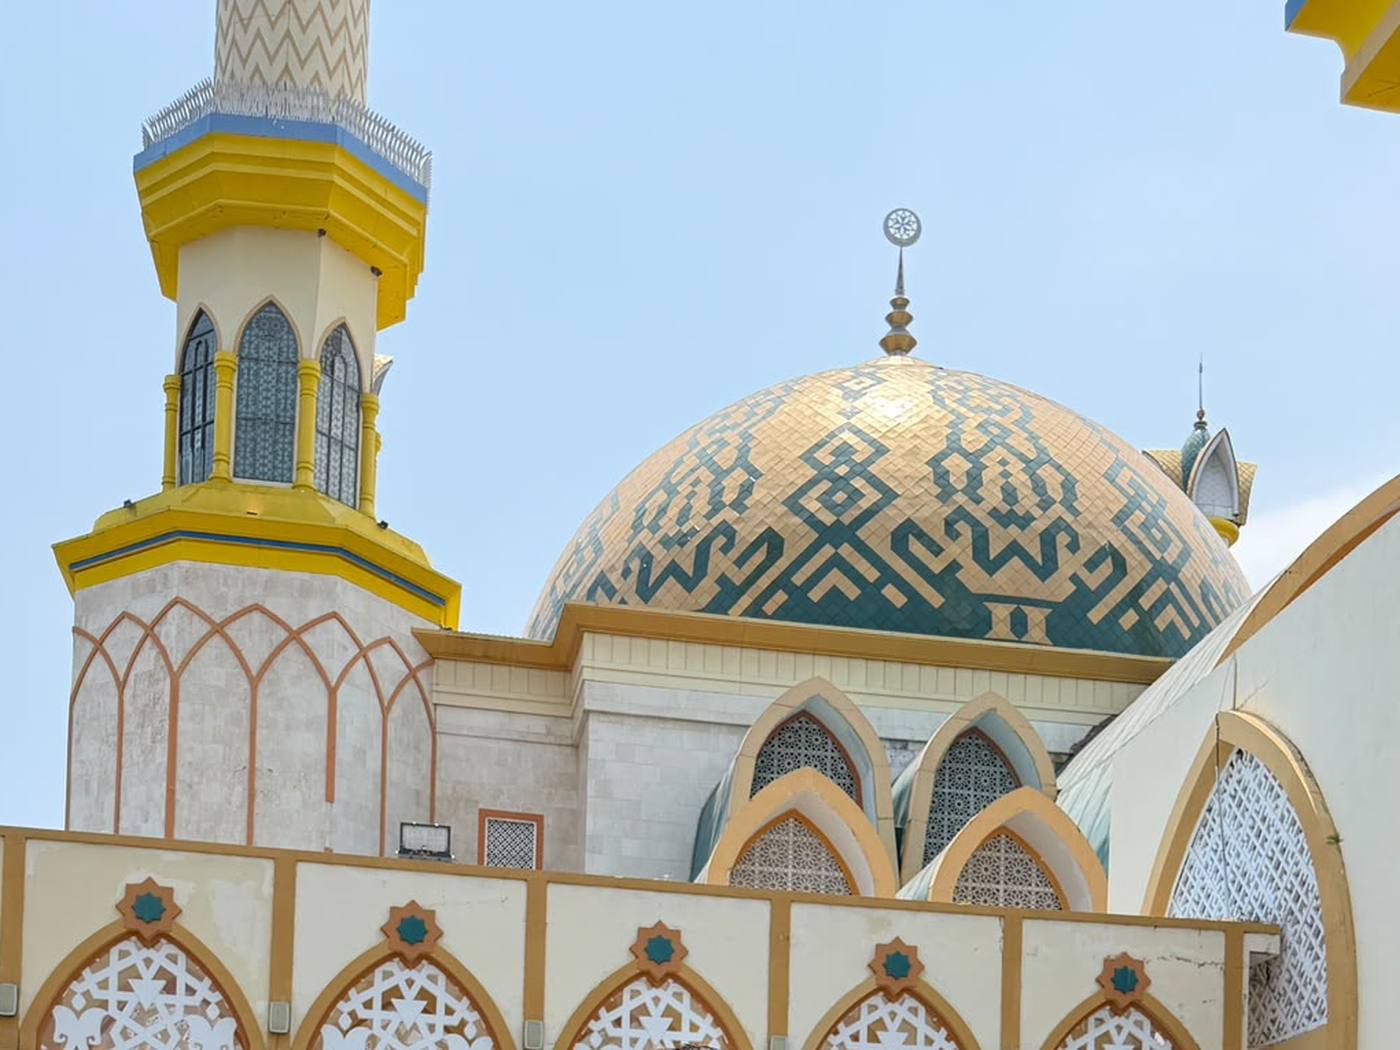
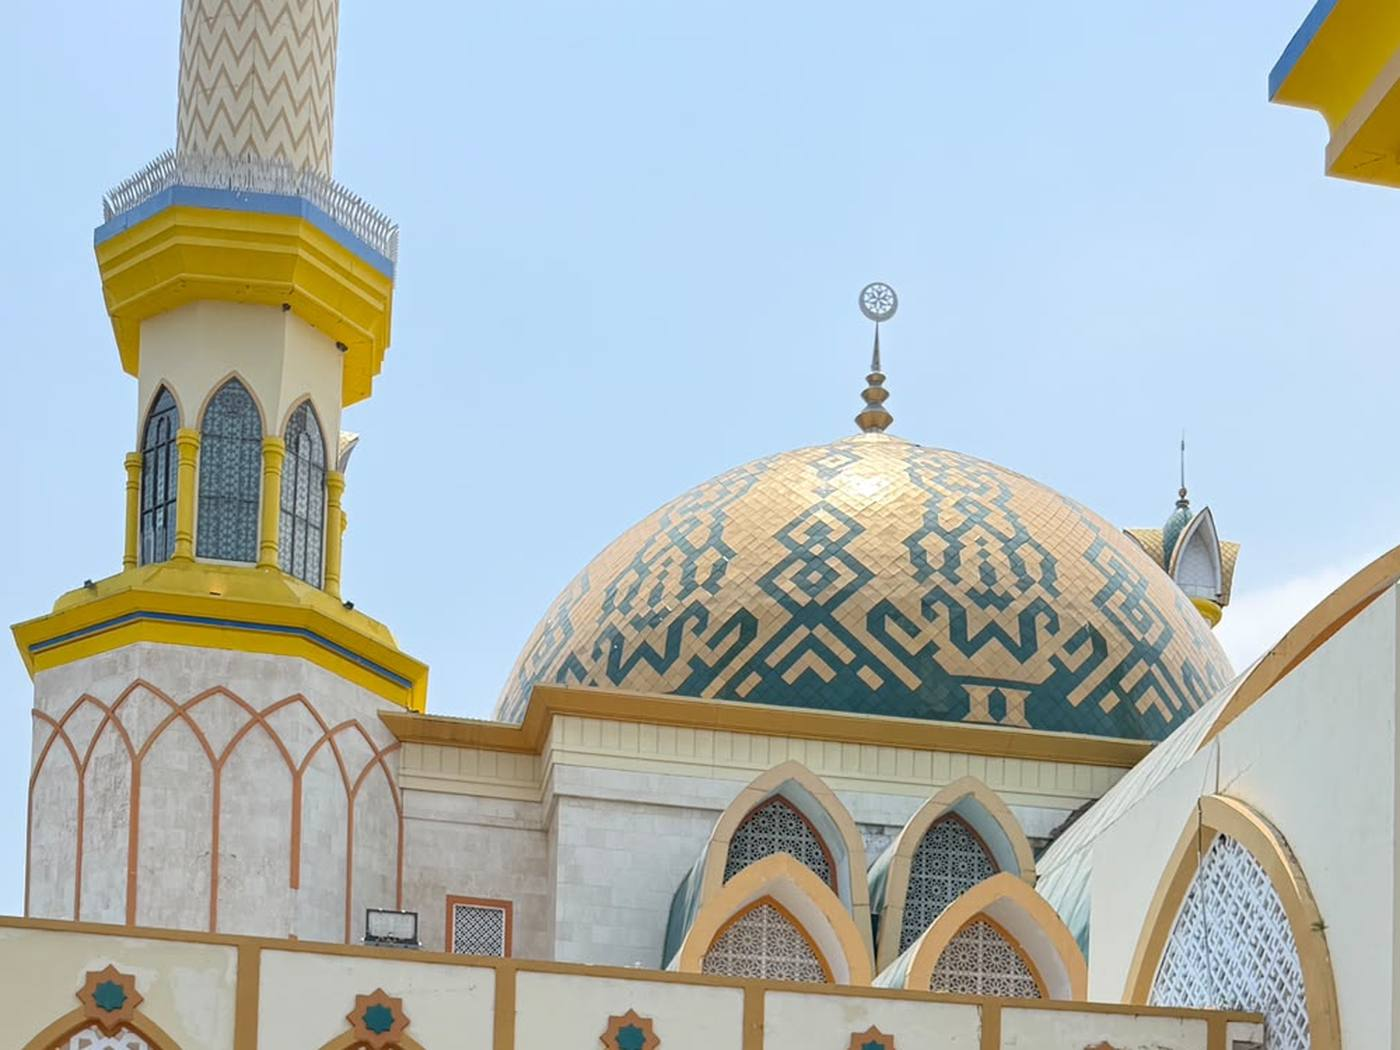
fix(home): improve service card image framing

diff --git a/src/data/site.js b/src/data/site.js
@@ -69,6 +69,7 @@ export const images = {
     },
     'daily-tours': {
       src: '/img/rinjani-waterfall.jpg',
+      position: '50% 85%',
       alt: {
         en: 'Two visitors standing arms out under a tall jungle waterfall in northern Lombok.',
         id: 'Dua pengunjung berdiri merentangkan tangan di bawah air terjun tinggi di hutan Lombok utara.',
@@ -92,6 +93,7 @@ export const images = {
     },
     'islamic-heritage-tour': {
       src: '/img/islamic-center-yumna.jpg',
+      position: '50% 48%',
       alt: {
         en: 'The Islamic Center in Mataram, Lombok: its patterned dome and minaret seen from the forecourt.',
         id: 'Islamic Center di Mataram, Lombok: kubah bermotif dan menaranya dilihat dari halaman depan.',
@@ -102,6 +104,7 @@ export const images = {
     // Sembalun photos below are Yumna's own.
     'multi-day-packages': {
       src: '/img/sembalun-clouds.jpg',
+      position: '50% 40%',
       alt: {
         en: 'Cloud pouring over the volcanic ridges above the Sembalun valley, vegetable fields stretching out below.',
         id: 'Awan mengalir di atas punggungan vulkanik lembah Sembalun, dengan hamparan ladang sayur di bawahnya.',

diff --git a/src/pages/Home.jsx b/src/pages/Home.jsx
@@ -136,7 +136,7 @@ function Services({ lang }) {
                     image={images.services[service.slug]}
                     lang={lang}
                     insideLink
-                    className="h-32 w-full"
+                    className="h-40 w-full"
                     patternClass={service.order % 2 ? 'pattern-field' : 'pattern-field-3'}
                   />
                   <div className="flex flex-1 flex-col p-6">
